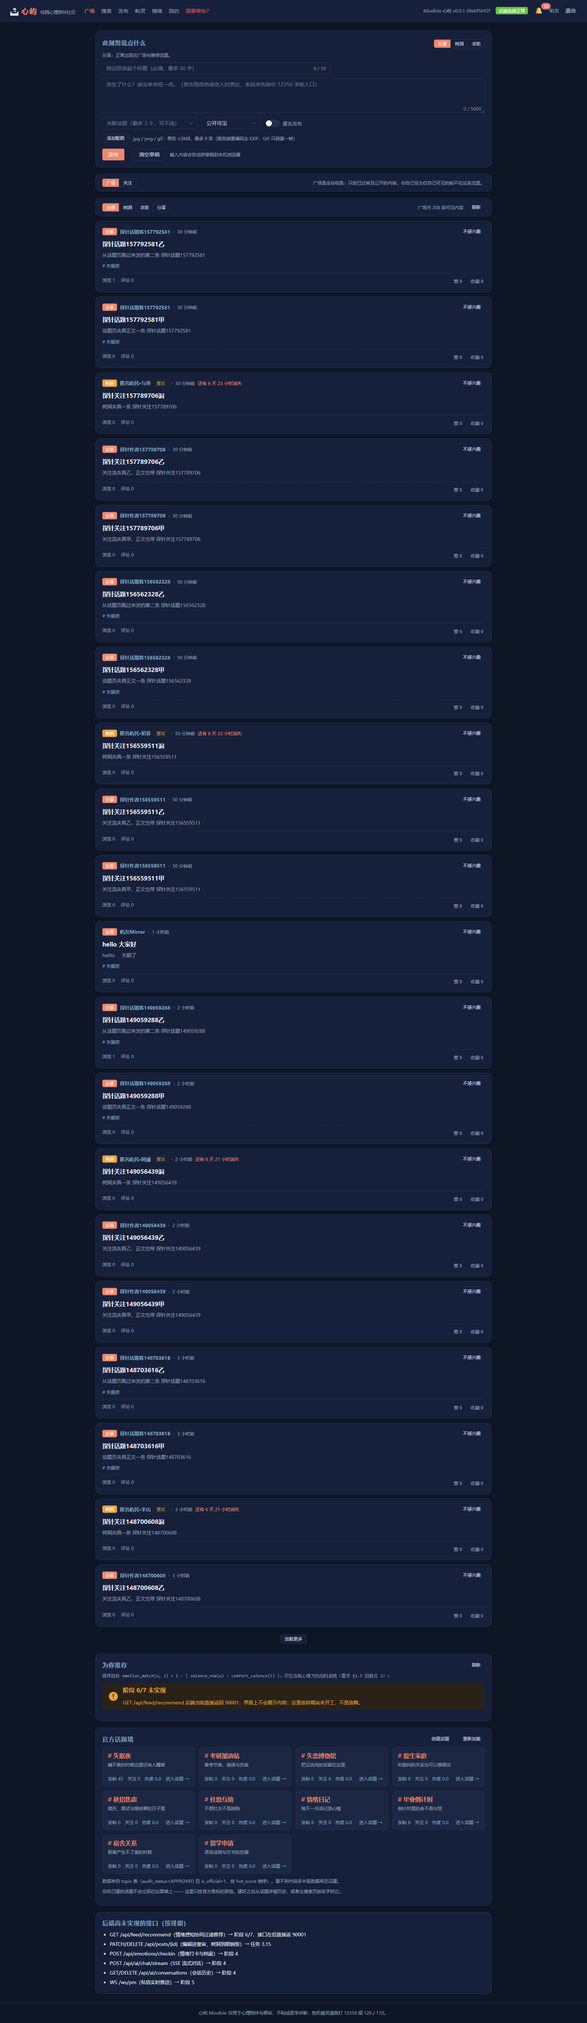
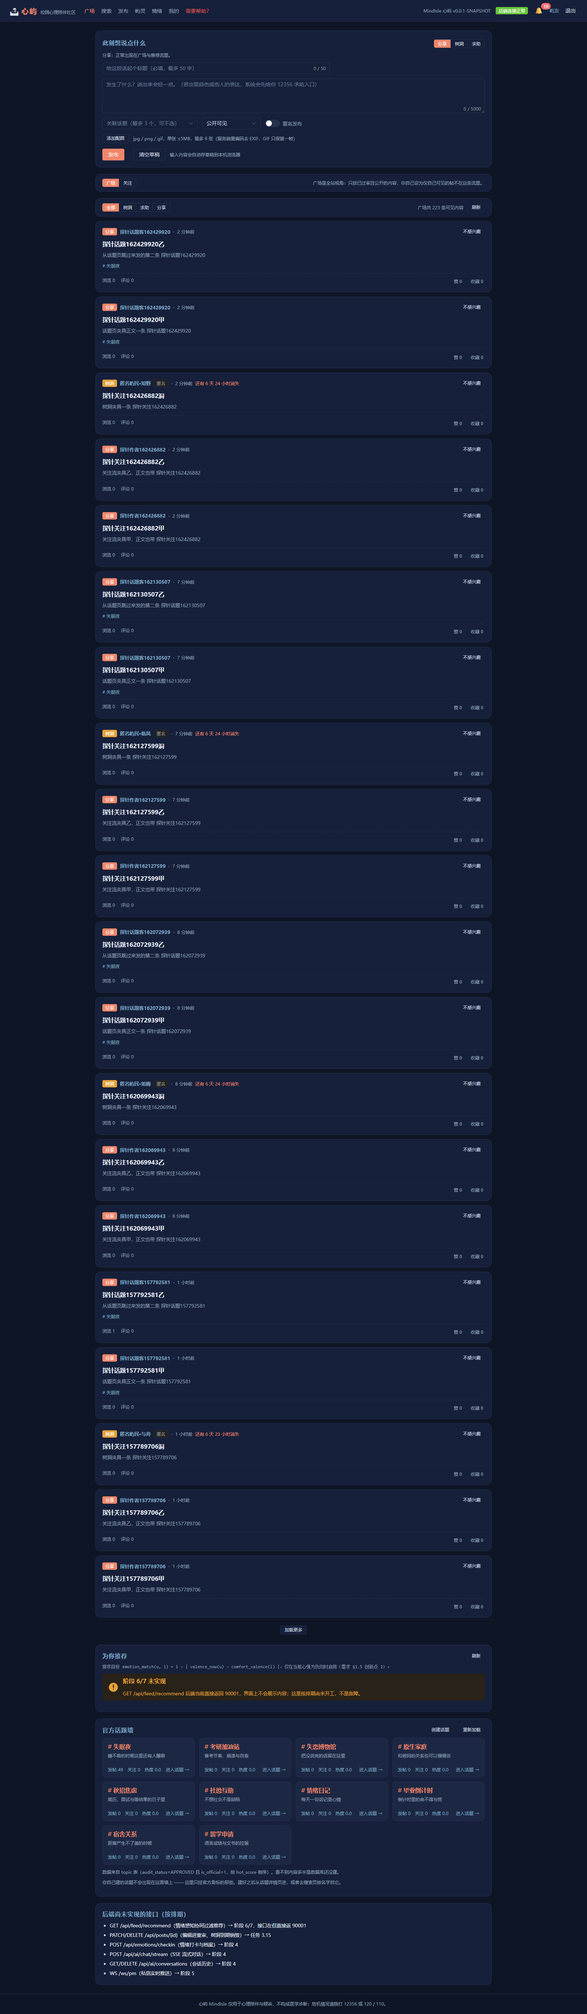
fix(009): 同屏两处「评论 N」统一口径 (4th bug found by eyeballing green screenshots, domprobe 121, build 1784, assertion falsified, no tag)
- 根因（DB 现查 post 308 = 20 条 = 19 PUBLISHED + 1 PENDING + 0 楼中楼）：卡片取 post.comment_cnt
  （先审后发只统计已发布），评论区标题取接口 total（含「仅作者可见」的待审那条）；两个字段各有注释、
  各自都算对，撞在同一屏才是 bug —— 四线全绿当天，靠人放大 06 截图才发现（shootgate 21/21 / domprobe 121 /
  build exit 0 / 冒烟 246 全都没覆盖「同屏两个读数必须相等」）
- CommentSection.vue: 新增 publishedCount prop，标题按 comment_cnt 计数，并用一行灰字自解释差额
  （"本页另有 1 条审核中、仅你可见"），不是把两个口径偷偷抹平；PostDetailView.vue 传 post.commentCnt
- 判据两条线各钉一条：shootgate 06 加 parity 断言；domprobe 第 9 组改写为同口径 + 提示条断言（120 → 121 项）
- 🔴 新断言必须先证伪：故意把 shownTotal 改回 total 复跑 → 06 确实 FAIL 并打印 卡片=19 / 评论区标题=20，
  改回后才 21/21；并新增「PASS 也要打印量到的读数」纪律，shootgate 275 → 291 行
- 🔴 顺带查出的两笔新账：① 证据截图首屏已被自家探针夹具污染（03 首屏「探针话题…乙」、15 主角是 probe
  账号 id 232；现查 user 231 行里 smoke_%+probe% 占 223）；② 清一次性数据拖到第五轮，真因是它与夹具耦合，
  欠的是可重入 seed 重建脚本而不是一条 DELETE（手册下一步 ⑧ 已升格为真任务）
- 后端本轮零改动；文档回写：手册 v1.2.5 / 1847 行、gate 总纲 223 行（新增 §1.3.1 全案 + 证伪记录）、
  docs/dev-log.md 续 12 / 1258 行、README.md 219 行；build ✓ 1784 modules（1783 → 1784 的 +1 来源未取证，已写白）
- Gate3 仍 ◐：U1 首页未开工 + T3.15~T3.17 复检未做 + T3.10 埋点未做 → 刻意不打 tag，基线仍 stage-2-skeleton

diff --git a/frontend/src/components/CommentSection.vue b/frontend/src/components/CommentSection.vue
@@ -1,8 +1,8 @@
 <template>
   <section class="mi-card comments">
     <header class="bar">
-      <h2 class="h">评论 <span class="n">{{ fmtCount(total) }}</span></h2>
-      <span class="rule">按一级评论计数，楼中楼的回复不在这个数字里。</span>
+      <h2 class="h">评论 <span class="n">{{ fmtCount(shownTotal) }}</span></h2>
+      <span class="rule">{{ countRule }}</span>
     </header>
 
     <crisis-card v-if="hotline" :hotline="hotline"
@@ -52,7 +52,7 @@
 
       <div class="pager">
         <el-button v-if="hasMore" class="more" size="small" :loading="loading" @click="loadMore">查看更多评论</el-button>
-        <span v-else-if="threads.length" class="end">共 {{ total }} 条一级评论，已经看到底了。</span>
+        <span v-else-if="threads.length" class="end">一级评论 {{ total }} 条已全部加载{{ pendingRoots ? '（含 ' + pendingRoots + ' 条审核中、仅你可见）' : '' }}。</span>
       </div>
 
       <footer class="composer">
@@ -119,7 +119,15 @@ import CrisisCard from '@/components/CrisisCard.vue'
  * REJECTED / DELETED 谁都不可见——这两种只留文案，列表里一个像素都不给。</p>
  */
 const props = defineProps({
-  postId: { type: [Number, String], required: true }
+  postId: { type: [Number, String], required: true },
+  /**
+   * 卡片/详情页页脚那个「评论 N」的值（= 后端 post.comment_cnt：只数 PUBLISHED，含楼中楼回复）。
+   * 评论区标题必须用**这一个数**，不能用列表的 total —— total 是「对当前查看者可见的一级评论数」，
+   * 既不含楼中楼、又把作者自己那条 PENDING 算进来，两个口径混在同一个屏幕上就会出现
+   * 「页脚写 19、评论区标题写 20」这种看起来像 bug 的对不上（Gate3 截图 06 实测到）。
+   * 不给这个 prop 时回退用 total，保证组件单独挂载时不炸。
+   */
+  publishedCount: { type: [Number, String], default: null }
 })
 // 一条已发布评论落库时告诉父级一次：详情页页脚那个「评论 N」就是靠它自增的，
 // 口径与后端 post.comment_cnt 完全一致（只数 PUBLISHED 且未删除的评论，含楼中楼回复）。
@@ -147,6 +155,27 @@ const tip = ref('')
 // 换帖时旧请求晚到会污染新帖子，所以每次发请求领一个号：回来时号不是最新的就整份丢掉。
 // 这条纪律是从 usePagedPosts.js 抄来的，同一个坑不该在两个列表里各踩一次。
 let seq = 0
+
+// 屏上「仅作者自己可见」的待审评论条数：一级评论里的那几条（回复层的另算，见 pendingAll）。
+const pendingRoots = computed(() => threads.value.filter(function (t) {
+  return t && t.root && t.root.status === 'PENDING'
+}).length)
+const pendingAll = computed(() => threads.value.reduce(function (n, t) {
+  if (!t) return n
+  if (t.root && t.root.status === 'PENDING') n += 1
+  return n + (Array.isArray(t.replies) ? t.replies.filter(function (r) { return r && r.status === 'PENDING' }).length : 0)
+}, 0))
+// 标题数字的唯一口径：父级给的「已发布评论数」，取不到才退回列表 total。
+const shownTotal = computed(() => {
+  const v = Number(props.publishedCount)
+  return Number.isFinite(v) && v >= 0 ? v : total.value
+})
+const countRule = computed(() => {
+  const base = '只数已发布评论，楼中楼回复也算在内，与卡片上的「评论」是同一个数。'
+  return pendingAll.value > 0
+    ? base + '本页另有 ' + pendingAll.value + ' 条审核中、仅你可见，所以下面会比这个数字多。'
+    : base
+})
 
 const len = computed(() => commentLength(draft.value))
 const overLimit = computed(() => len.value > COMMENT_MAX_CHARS)

diff --git a/frontend/src/views/post/PostDetailView.vue b/frontend/src/views/post/PostDetailView.vue
@@ -88,7 +88,7 @@
 
     <!-- 评论区（任务 T3.7 · U4）：单独一张卡。未登录、加载失败、空列表三种状态由组件自己画，
          详情页不参与——同一句「看不到评论」在三种情况下的成因完全不同，混在父页面里判就容易判错。 -->
-    <comment-section v-if="post" :post-id="postId" @published="onCommentPublished" />
+    <comment-section v-if="post" :post-id="postId" :published-count="post.commentCnt" @published="onCommentPublished" />
 
     <!-- 举报弹层（T3.11）。用弹层而不是常驻表单：举报是填完就走的低频动作，
          挂在正文下面会让「看帖」这件事一直被一个空框子打断。 -->
@@ -192,6 +192,8 @@ const previewList = computed(() => (post.value?.images || []).map((x) => x.url))
 const postId = computed(() => Number(route.params.id) || 0)
 // 页脚的「评论 N」跟着回执走：口径与后端 post.comment_cnt 相同（只数已发布，含楼中楼回复），
 // 所以一条被机审转人工的评论不会让这个数变化——它确实还没进 comment_cnt。
+// 同一个数还通过 published-count 传给评论区当标题：屏幕上两处「评论 N」必须是同一个口径，
+// 待审那几条由组件自己在规则文案里单独说明（Gate3 截图 06 实测到「页脚 19 / 标题 20」对不上）。
 function onCommentPublished() {
   if (!post.value) return
   post.value.commentCnt = (Number(post.value.commentCnt) || 0) + 1

diff --git a/README.md b/README.md
@@ -1,6 +1,6 @@
 # 009_心屿（MindIsle）· AI 心理陪伴与情感支持社区平台（毕业设计）
 
-> 项目编号 009 ｜ 立项 2026-09-17 ｜ 当前阶段：**阶段 3 进行中（☑ 8 / ◐ 7 / ☐ 2 ｜ §6.4 Gate 3 清单 ☑ 4 / ☐ 1 ｜ 未打 tag，最新 `stage-2-skeleton`）**——真实 MySQL 已建库（**33 张表 / 9.7.1**），社区主线 **T3.3 发帖 + 状态机 + 危机工单** 与 **T3.5 列表 / 详情** 与 **T3.6 点赞 · 收藏 · 关注（含全表不变式取证）** 与 **T3.7 评论与楼中楼（两态先审后发 + 三级压平 + 危机评论建工单）** 与 **T3.11 举报 + T3.11-b 站内通知与顶栏铃铛（一人一条 / 三人阈值转人审 / self-harm 只转介不处置）** 与 **T3.9 站内搜索（帖子·话题·屿友三条路径 + `/search` 页）** 与 **T3.17 关注流（`GET /api/feed/following` + 广场「关注」Tab）** 已落地并跑通：`mvn -o -B test` 实测 **368 例 0 失败 0 错误 1 跳过**，另有一条**真 HTTP 冒烟脚本** `docs/smoke.mjs` 实测 **246 项 / 231 条断言 / 0 失败**（21 步：注册→登录→发帖→机审拦截→危机转人工→工单落库→马甲去重→配额 429→上传挂图→**可见性（私密与待审整行不出现）→翻页零重叠→浏览量缓存回写**→**点赞收藏关注往返**→**评论三级压平 / 待审仅作者可见 / BR4 第 21 条 429 与 30003**→**举报一人一条不重开 / 三人阈值转人审 + 第三人读回 404 / self-harm 只给 12356**→**赞·评论·关注三类通知 + 游标翻页 + 幂等标已读（越权 `updated=0`）**→**站内搜索三条路径：命中与不命中 / 未登录 401 / `%` 与 `_` 按 `ESCAPE '!'` 转义 / 私密与待审帖整行不出现**→**关注流：未登录 401 不退化成广场 / 空关注不发 SQL / 树洞与私密恒不出现**，跑完回查数据库取证）。**T3.5**：`GET /api/posts`（游标 `beforeId` + `size≤50`，未登录 401/10002）与 `GET /api/posts/{id}`（不可见与不存在统一 **404/30001**，绝不 403）已带真库证据；浏览量走**每帖每 5 分钟最多回写一次**的写延迟缓存（SQL 复核 `post 32 view_cnt=1`，与「列表读到 1、详情读到 3」互证）。**T3.13 前端第一批（U3 / U4 / U5）+ 第二批（U11 屿友主页 / U12 我的帖子）+ 本轮增量（U4 评论区 CommentSection.vue）代码已落地**，证据三条：`npm run build` **exit 0**、经 Vite 代理的真取数 `proxycheck.mjs` **10 项 / 0 失败**、**jsdom DOM 级取证 `frontend/probe/domprobe.mjs` 真渲染 + 真点击 120 项 / 0 失败（13 组）**；**第四条线 = 真浏览器取证 `frontend/probe/shootgate.mjs`**（系统 Chrome，**21 张带四类机器断言的截图**，末次 21/21 PASS / exit 0，图与总纲在 `docs/gate/阶段3/`）+ **量级性能线 `docs/gate/阶段3/perf-posts.mjs`**（508 条量级广场 **P95=33ms**，PASS）。**但四条线各证各的、谁也不能替谁背书**：jsdom 不含样式与布局，真浏览器截图不测业务规则；探针自「续 7」第 11 组起**第一次点过写按钮**（注册一次性账号 → 关注 → 点铃铛 → 全部已读），代价是库里多了未清理的 user 77–85 与 notify 58–63 —— 而「点过写」仍**不等于**「界面已验证」（写白）。未做（☐ 2 项）：**埋点 T3.10 / 编辑与到期销毁 T3.15**；◐ 7 项 = T3.2 词库热更新、T3.13（只剩 **U1 首页**未开工，真浏览器取证已由 v1.2.4 补上）、T3.8 话题圈（`hot_score` / `is_top` / U6 头图 / 预审放行四件欠账）、T3.14 Gate3 自检（§6.4 已 ☑ 4 条，欠单测与 v1.1 补齐复检）、T3.16 U13 通知中心整页、**T3.9 搜索（相关度排序与全文通道未开、U8 历史与热搜要等 T3.10）**、**T3.17 关注流（种子评论 ≥ 200 条未补）**；另有 U1/U6 前端未开工；未实现的部分按设计返回 **90001/501，不用 mock 糊弄演示**。开题材料（阶段 1B）按用户 2026-09-18 指令顺延，不排在代码之前。
+> 项目编号 009 ｜ 立项 2026-09-17 ｜ 当前阶段：**阶段 3 进行中（☑ 8 / ◐ 7 / ☐ 2 ｜ §6.4 Gate 3 清单 ☑ 4 / ☐ 1 ｜ 未打 tag，最新 `stage-2-skeleton`）**——真实 MySQL 已建库（**33 张表 / 9.7.1**），社区主线 **T3.3 发帖 + 状态机 + 危机工单** 与 **T3.5 列表 / 详情** 与 **T3.6 点赞 · 收藏 · 关注（含全表不变式取证）** 与 **T3.7 评论与楼中楼（两态先审后发 + 三级压平 + 危机评论建工单）** 与 **T3.11 举报 + T3.11-b 站内通知与顶栏铃铛（一人一条 / 三人阈值转人审 / self-harm 只转介不处置）** 与 **T3.9 站内搜索（帖子·话题·屿友三条路径 + `/search` 页）** 与 **T3.17 关注流（`GET /api/feed/following` + 广场「关注」Tab）** 已落地并跑通：`mvn -o -B test` 实测 **368 例 0 失败 0 错误 1 跳过**，另有一条**真 HTTP 冒烟脚本** `docs/smoke.mjs` 实测 **246 项 / 231 条断言 / 0 失败**（21 步：注册→登录→发帖→机审拦截→危机转人工→工单落库→马甲去重→配额 429→上传挂图→**可见性（私密与待审整行不出现）→翻页零重叠→浏览量缓存回写**→**点赞收藏关注往返**→**评论三级压平 / 待审仅作者可见 / BR4 第 21 条 429 与 30003**→**举报一人一条不重开 / 三人阈值转人审 + 第三人读回 404 / self-harm 只给 12356**→**赞·评论·关注三类通知 + 游标翻页 + 幂等标已读（越权 `updated=0`）**→**站内搜索三条路径：命中与不命中 / 未登录 401 / `%` 与 `_` 按 `ESCAPE '!'` 转义 / 私密与待审帖整行不出现**→**关注流：未登录 401 不退化成广场 / 空关注不发 SQL / 树洞与私密恒不出现**，跑完回查数据库取证）。**T3.5**：`GET /api/posts`（游标 `beforeId` + `size≤50`，未登录 401/10002）与 `GET /api/posts/{id}`（不可见与不存在统一 **404/30001**，绝不 403）已带真库证据；浏览量走**每帖每 5 分钟最多回写一次**的写延迟缓存（SQL 复核 `post 32 view_cnt=1`，与「列表读到 1、详情读到 3」互证）。**T3.13 前端第一批（U3 / U4 / U5）+ 第二批（U11 屿友主页 / U12 我的帖子）+ 本轮增量（U4 评论区 CommentSection.vue）代码已落地**，证据三条：`npm run build` **exit 0**、经 Vite 代理的真取数 `proxycheck.mjs` **10 项 / 0 失败**、**jsdom DOM 级取证 `frontend/probe/domprobe.mjs` 真渲染 + 真点击 120 项 / 0 失败（13 组）**；**第四条线 = 真浏览器取证 `frontend/probe/shootgate.mjs`**（系统 Chrome，**21 张带四类机器断言的截图**，末次 21/21 PASS / exit 0，图与总纲在 `docs/gate/阶段3/`）+ **量级性能线 `docs/gate/阶段3/perf-posts.mjs`**（508 条量级广场 **P95=33ms**，PASS）。**续 12 的教训：四条线全绿当天，肉眼又抓出第 4 个真 bug —— 同一屏出现两个「评论 N」读数（卡片 19 / 评论区标题 20），两个后端字段各自都有注释、各自都算对，撞在一屏才是 bug；所以「绿」只证明断言没覆盖到，不证明界面正确**。**但四条线各证各的、谁也不能替谁背书**：jsdom 不含样式与布局，真浏览器截图不测业务规则；探针自「续 7」第 11 组起**第一次点过写按钮**（注册一次性账号 → 关注 → 点铃铛 → 全部已读），代价是库里多了未清理的 user 77–85 与 notify 58–63 —— 而「点过写」仍**不等于**「界面已验证」（写白）。未做（☐ 2 项）：**埋点 T3.10 / 编辑与到期销毁 T3.15**；◐ 7 项 = T3.2 词库热更新、T3.13（只剩 **U1 首页**未开工，真浏览器取证已由 v1.2.4 补上）、T3.8 话题圈（`hot_score` / `is_top` / U6 头图 / 预审放行四件欠账）、T3.14 Gate3 自检（§6.4 已 ☑ 4 条，欠单测与 v1.1 补齐复检）、T3.16 U13 通知中心整页、**T3.9 搜索（相关度排序与全文通道未开、U8 历史与热搜要等 T3.10）**、**T3.17 关注流（种子评论 ≥ 200 条未补）**；另有 U1/U6 前端未开工；未实现的部分按设计返回 **90001/501，不用 mock 糊弄演示**。开题材料（阶段 1B）按用户 2026-09-18 指令顺延，不排在代码之前。
 > 论文题目（推荐）：**《基于大语言模型与情绪感知协同过滤算法的校园心理陪伴社区平台的设计与实现》**
 > 英文题目：*Design and Implementation of a Campus Psychological Companionship Community Platform Based on Large Language Model and Emotion-Aware Collaborative Filtering*
 >
@@ -12,7 +12,7 @@
 | 文件 | 作用 |
 |---|---|
 | `需求分析文档.md`（**v1.2.1**） | 做什么、做到什么标准：FR1–FR10 / NFR / BR / 算法与实验设计 / 里程碑 / DoD / 论文章节映射；§15 风险表已并入调研新增的 **R12–R21**，§7.2 表清单口径统一为「24 个编号行 = **31** 张物理表」（v1.2.1 把「单独同意」拆成独立 `user_consent` 表） |
-| **`制作步骤文档.md`（**v1.2.4**）** | **怎么一步步做**：技术栈定版、阶段 0–9 施工步骤与可复制命令、Gate 验收（含 §18 Gate 判定汇总 10 行）、42 条常见故障速查、117 项任务打勾总表（**144.3 人日 ≈ 577 小时**，日历 ≈32 周）、§17 三向追溯矩阵 101 行（FR 74 + NFR 12 + BR 12 + AR 3）、§19 交付自检。**当前 v1.1.6 = T3.3 发帖状态机 + 危机工单回写（v1.1.4 / v1.1.5 条目仍然有效）**（其下条目为 v1.1.3 的阶段 2 回写，仍然有效）：表数 30→31、`user_consent` 独立建表、申诉表定名 `post_appeal`、`00_create_db_and_user.sql` 实名、词云 R19 依赖层关闭（运行时渲染仍待验证）、§5.8 与 §5.10 逐条对账；**v1.1.4（2026-09-20）新增**：敏感词引擎 + 马甲规则 + 频率规则三块地基落地并测绿（66 例单测）、§15 阶段 3 表 **T3.2/T3.4/T3.12 由 ☐ 升 ◐**（其余 14 项仍 ☐）、§18 Gate3 改「◐ 进行中」、OpenAPI 实测 **21 paths / 24 operations / 6 分组**、本轮修掉 **8 处真实缺陷**（最贵一条：裸路径在 Servlet 容器 ResourceLoader 下解析成 `ServletContext resource [...]`，测试绿线上红）；**v1.1.5（2026-09-20）新增**：**T3.1 图片上传**落地 —— 魔数白名单（只认 jpg/png/gif 文件头，扩展名与 Content-Type 一律不信）+ Thumbnailator 重编码去 EXIF + 按原格式回存（不用 WebP：FR4.1 白名单只有 jpg/png/gif 且 JDK 17 无 WebP 编码器）；§15 表 **T3.1 由 ☐ 升 ◐**（阶段 3 收工口径 **☑ 0 / ◐ 4 / ☐ 13**）、单测 66 → **80 例**、OpenAPI **21/24/6 → 22 paths / 25 operations / 7 分组**（新增 07-file）、本轮又挖出 **4 个坑**（最贵一条：MVC 静态映射被写成 `/uploads//**`，磁盘有文件而 HTTP 404、80 例单测却全绿 → 接线类改动必须在跑着的服务上打一次真实请求）；**v1.1.6（2026-09-20）新增**：**31 表 DDL 第一次被真实 MySQL 解析执行**（`docs/init-db.ps1` 端到端跑通，`information_schema` 实测 31 表 / 9.7.1）、**T3.3 ☐→☑**（发帖八步判定顺序 + 危机 L2·L3 建 `alert_ticket` + `post_status_log` 状态日志）、**T3.12 ◐→☑**（配额有了真实调用方，明确决定不做重启 COUNT 校准）、**T3.1 ◐→☑**（登录 200 上传 + 挂图进帖）、**T3.4 ◐→☑**（马甲分配第一次跑在真库上），阶段 3 口径 **☑ 4 / ◐ 1 / ☐ 12**；单测 80 → **131 例**、新增**真 HTTP 冒烟** `docs/smoke.mjs`（45 项 / 41 断言 / 0 失败）；§6.1 追加 v1.1.6 实测回写 8 条（最贵一条：Java 15+ 把字符串字面量里的 `s` **静默当成空格**，正则失效而 131 例单测照样全绿，最后靠打印 charCode 才抓出来）；**v1.1.7（2026-09-20）新增**：**T3.5 ☐→☑**（游标分页 `beforeId` + 唯一可见性判据 `visibleTo` + 浏览量**每帖每 5 分钟最多回写一次**的写延迟缓存，回写 SQL 用 `view_cnt = view_cnt + #{delta}` 库内原子累加）、**§6.4 第 1 条 ☐→☑**（灰词转人审的双账号可见性第一次被真库实测：第三人列表整条不出现、详情 404/30001、作者侧带 `auditTip`）、**T3.13 ☐→◐ 第一批**（U3/U4/U5 代码落地，**证据只有 build + 代理级取数，未经浏览器渲染实测**）、阶段 3 口径 **☑ 5 / ◐ 2 / ☐ 10**、单测 131 → **153 例**、冒烟 45 项/41 断言 → **68 项 / 63 断言**（11 步 → 13 步）、§6.1 追加 v1.1.7 实测回写 9 条（最贵一条：`auditTip` 判据写成 `isOwner(post, post.getUserId())` 恒真且漏传 `viewerId`，会把「谁在被审核」泄露给全广场 —— 靠双账号冒烟抓出）；**v1.1.8（2026-09-21）新增**：**T3.13 第二批落地** —— 后端 `GET /api/users/me/posts` + `GET /api/users/{id:\d+}/posts`（作者视角能找回私密与待审；外人视角三重收窄，**匿名帖恒不出现** = FR1.4 防解匿）、`PostQueryService` 463 → 592 行、新增 `PostListSqlConditionTest` **6 例**（不连库钉 SQL 形状，其中一例用反射钉「主页判据签名里不允许有 viewerId」）、前端 U11/U12 两页 + `composables/usePagedPosts.js`、**并第一次做出 DOM 级取证**（`frontend/probe/domprobe.mjs`：同配置编译成 iife 包塞进 jsdom + 真登录 token + 真点击，23 项 / 0 失败）；单测 153 → **162 例**、冒烟 68/63 → **85 项 / 78 断言**（13 → 14 步，断言数一律抄脚本汇总行）、OpenAPI 22/25/7 → **24 / 27 / 7**、§6.1 追加 v1.1.8 回写 7 条；**T3.13 维持 ◐ 不升 ☑**（真浏览器仍未测：jsdom 不含样式与布局）；**v1.1.9（2026-09-21）新增**：**T3.6 ☐→☑**（幂等 = 查—复活同一行—软删、计数**按真实互动行重算**而不是 `INCR`、**自赞允许且计数**），§6.1 的 3.6 行与 §15 / §17 BR4 **三处口径按实测回改**、§6.2 U3/U4/U11 三行更新、§6.4 第 2 条 ☐→☑、阶段 3 口径 **☑ 5→6 / ☐ 10→9**、单测 162 → **185 例**、冒烟 85/78 → **113 / 105**（14 → 15 步）、OpenAPI 24/27/7 → **27 / 30 / 7**、`domprobe` 23 → **30 项**、新增**全表不变式 SQL 取证（三条谓词归零）**；**v1.2.0（2026-09-21）新增**：**T3.7 ☐→☑**（评论两态先审后发 + 三级压平成两级 + rootId 展开 + 危机评论复用 newTicket 建工单，**已知妥协：alert_ticket.source_type 没有 comment 取值、只能在证据文本里回指评论 id**）、§6.1 行 3.7 整行重写 + 追加 15 条实测回写、§6.2 U4 行接评论区、§14 速查新增 31–35 五条、阶段 3 口径 **☑ 6→7 / ☐ 9→8**、单测 185 → **228 例**、冒烟 113/105 → **137 项 / 127 断言**（15 → 16 步）、domprobe 30 → **42 项**、手册 1744 → **1766 行**（含本轮新增的 §14 第 36 条）（**OpenAPI 本轮未取证**）；**v1.2.2（2026-09-23）新增**：**T3.9 站内搜索**（帖子·话题·屿友三条 LIKE 路径 + `common/Keyword` 与 `common/LikePattern` 两件通用工具 + 前端 `/search` 页 337 行）与 **T3.17 关注流**（`GET /api/feed/following` + 广场「关注」Tab，两节用 `v-show` 以保住无限滚动的哨兵）**双双落地 → 两项由 ☐ 升 ◐**（各带一条写死的欠账：相关度排序与全文通道 / 种子评论 ≥200 条），阶段 3 口径 **☑ 8 / ◐ 3→5 / ☐ 6→4**、单测 296 → **327 例**、冒烟 187/175 → **220 项 / 206 断言**（18 → 20 步、脚本 1393 → 1683 行）、OpenAPI 27/30/7 → **35 paths / 39 operations / 9 分组**（新增 `09-search 站内搜索`）、domprobe 61 → **93 项 / 0 失败（新增第 12 组，并自抓到「筛选生效但地址栏没变」的 `switchType` 漏 `syncQuery` bug）**、`npm run build` **✓ 1780 modules**、手册 1785 → **1802 行** |
+| **`制作步骤文档.md`（**v1.2.5**）** | **怎么一步步做**：技术栈定版、阶段 0–9 施工步骤与可复制命令、Gate 验收（含 §18 Gate 判定汇总 10 行）、42 条常见故障速查、117 项任务打勾总表（**144.3 人日 ≈ 577 小时**，日历 ≈32 周）、§17 三向追溯矩阵 101 行（FR 74 + NFR 12 + BR 12 + AR 3）、§19 交付自检。**当前 v1.1.6 = T3.3 发帖状态机 + 危机工单回写（v1.1.4 / v1.1.5 条目仍然有效）**（其下条目为 v1.1.3 的阶段 2 回写，仍然有效）：表数 30→31、`user_consent` 独立建表、申诉表定名 `post_appeal`、`00_create_db_and_user.sql` 实名、词云 R19 依赖层关闭（运行时渲染仍待验证）、§5.8 与 §5.10 逐条对账；**v1.1.4（2026-09-20）新增**：敏感词引擎 + 马甲规则 + 频率规则三块地基落地并测绿（66 例单测）、§15 阶段 3 表 **T3.2/T3.4/T3.12 由 ☐ 升 ◐**（其余 14 项仍 ☐）、§18 Gate3 改「◐ 进行中」、OpenAPI 实测 **21 paths / 24 operations / 6 分组**、本轮修掉 **8 处真实缺陷**（最贵一条：裸路径在 Servlet 容器 ResourceLoader 下解析成 `ServletContext resource [...]`，测试绿线上红）；**v1.1.5（2026-09-20）新增**：**T3.1 图片上传**落地 —— 魔数白名单（只认 jpg/png/gif 文件头，扩展名与 Content-Type 一律不信）+ Thumbnailator 重编码去 EXIF + 按原格式回存（不用 WebP：FR4.1 白名单只有 jpg/png/gif 且 JDK 17 无 WebP 编码器）；§15 表 **T3.1 由 ☐ 升 ◐**（阶段 3 收工口径 **☑ 0 / ◐ 4 / ☐ 13**）、单测 66 → **80 例**、OpenAPI **21/24/6 → 22 paths / 25 operations / 7 分组**（新增 07-file）、本轮又挖出 **4 个坑**（最贵一条：MVC 静态映射被写成 `/uploads//**`，磁盘有文件而 HTTP 404、80 例单测却全绿 → 接线类改动必须在跑着的服务上打一次真实请求）；**v1.1.6（2026-09-20）新增**：**31 表 DDL 第一次被真实 MySQL 解析执行**（`docs/init-db.ps1` 端到端跑通，`information_schema` 实测 31 表 / 9.7.1）、**T3.3 ☐→☑**（发帖八步判定顺序 + 危机 L2·L3 建 `alert_ticket` + `post_status_log` 状态日志）、**T3.12 ◐→☑**（配额有了真实调用方，明确决定不做重启 COUNT 校准）、**T3.1 ◐→☑**（登录 200 上传 + 挂图进帖）、**T3.4 ◐→☑**（马甲分配第一次跑在真库上），阶段 3 口径 **☑ 4 / ◐ 1 / ☐ 12**；单测 80 → **131 例**、新增**真 HTTP 冒烟** `docs/smoke.mjs`（45 项 / 41 断言 / 0 失败）；§6.1 追加 v1.1.6 实测回写 8 条（最贵一条：Java 15+ 把字符串字面量里的 `s` **静默当成空格**，正则失效而 131 例单测照样全绿，最后靠打印 charCode 才抓出来）；**v1.1.7（2026-09-20）新增**：**T3.5 ☐→☑**（游标分页 `beforeId` + 唯一可见性判据 `visibleTo` + 浏览量**每帖每 5 分钟最多回写一次**的写延迟缓存，回写 SQL 用 `view_cnt = view_cnt + #{delta}` 库内原子累加）、**§6.4 第 1 条 ☐→☑**（灰词转人审的双账号可见性第一次被真库实测：第三人列表整条不出现、详情 404/30001、作者侧带 `auditTip`）、**T3.13 ☐→◐ 第一批**（U3/U4/U5 代码落地，**证据只有 build + 代理级取数，未经浏览器渲染实测**）、阶段 3 口径 **☑ 5 / ◐ 2 / ☐ 10**、单测 131 → **153 例**、冒烟 45 项/41 断言 → **68 项 / 63 断言**（11 步 → 13 步）、§6.1 追加 v1.1.7 实测回写 9 条（最贵一条：`auditTip` 判据写成 `isOwner(post, post.getUserId())` 恒真且漏传 `viewerId`，会把「谁在被审核」泄露给全广场 —— 靠双账号冒烟抓出）；**v1.1.8（2026-09-21）新增**：**T3.13 第二批落地** —— 后端 `GET /api/users/me/posts` + `GET /api/users/{id:\d+}/posts`（作者视角能找回私密与待审；外人视角三重收窄，**匿名帖恒不出现** = FR1.4 防解匿）、`PostQueryService` 463 → 592 行、新增 `PostListSqlConditionTest` **6 例**（不连库钉 SQL 形状，其中一例用反射钉「主页判据签名里不允许有 viewerId」）、前端 U11/U12 两页 + `composables/usePagedPosts.js`、**并第一次做出 DOM 级取证**（`frontend/probe/domprobe.mjs`：同配置编译成 iife 包塞进 jsdom + 真登录 token + 真点击，23 项 / 0 失败）；单测 153 → **162 例**、冒烟 68/63 → **85 项 / 78 断言**（13 → 14 步，断言数一律抄脚本汇总行）、OpenAPI 22/25/7 → **24 / 27 / 7**、§6.1 追加 v1.1.8 回写 7 条；**T3.13 维持 ◐ 不升 ☑**（真浏览器仍未测：jsdom 不含样式与布局）；**v1.1.9（2026-09-21）新增**：**T3.6 ☐→☑**（幂等 = 查—复活同一行—软删、计数**按真实互动行重算**而不是 `INCR`、**自赞允许且计数**），§6.1 的 3.6 行与 §15 / §17 BR4 **三处口径按实测回改**、§6.2 U3/U4/U11 三行更新、§6.4 第 2 条 ☐→☑、阶段 3 口径 **☑ 5→6 / ☐ 10→9**、单测 162 → **185 例**、冒烟 85/78 → **113 / 105**（14 → 15 步）、OpenAPI 24/27/7 → **27 / 30 / 7**、`domprobe` 23 → **30 项**、新增**全表不变式 SQL 取证（三条谓词归零）**；**v1.2.0（2026-09-21）新增**：**T3.7 ☐→☑**（评论两态先审后发 + 三级压平成两级 + rootId 展开 + 危机评论复用 newTicket 建工单，**已知妥协：alert_ticket.source_type 没有 comment 取值、只能在证据文本里回指评论 id**）、§6.1 行 3.7 整行重写 + 追加 15 条实测回写、§6.2 U4 行接评论区、§14 速查新增 31–35 五条、阶段 3 口径 **☑ 6→7 / ☐ 9→8**、单测 185 → **228 例**、冒烟 113/105 → **137 项 / 127 断言**（15 → 16 步）、domprobe 30 → **42 项**、手册 1744 → **1766 行**（含本轮新增的 §14 第 36 条）（**OpenAPI 本轮未取证**）；**v1.2.2（2026-09-23）新增**：**T3.9 站内搜索**（帖子·话题·屿友三条 LIKE 路径 + `common/Keyword` 与 `common/LikePattern` 两件通用工具 + 前端 `/search` 页 337 行）与 **T3.17 关注流**（`GET /api/feed/following` + 广场「关注」Tab，两节用 `v-show` 以保住无限滚动的哨兵）**双双落地 → 两项由 ☐ 升 ◐**（各带一条写死的欠账：相关度排序与全文通道 / 种子评论 ≥200 条），阶段 3 口径 **☑ 8 / ◐ 3→5 / ☐ 6→4**、单测 296 → **327 例**、冒烟 187/175 → **220 项 / 206 断言**（18 → 20 步、脚本 1393 → 1683 行）、OpenAPI 27/30/7 → **35 paths / 39 operations / 9 分组**（新增 `09-search 站内搜索`）、domprobe 61 → **93 项 / 0 失败（新增第 12 组，并自抓到「筛选生效但地址栏没变」的 `switchType` 漏 `syncQuery` bug）**、`npm run build` **✓ 1780 modules**、手册 1785 → **1802 行** |
 | `同类项目调研与实现方案.md`（**已定版 + §10 增补**） | ✅ Gate 1 产出：18 个同类项目档案 + 横向对比 + 许可证核查 + §6 实现方案 + §7 风险 R12–R21。**SOP 关卡已过，§0–§9 转只读**，开工后的事实以 **§10「阶段 2 施工实测回写」** 追加（表数 31、R19 只关一半、毕设材料顺延） |
 
 ## 二、项目目标（四件事缝成一条闭环）
@@ -193,6 +193,14 @@ node docs\gate\阶段3\perf-posts.mjs          # 打印 P50/P95/P99 并写 perf-
   - 新建 `docs/gate/阶段3/perf-posts.mjs`（**190 行**）：`seed-500-posts.sql` 把广场可见帖 208 → **508** 后开测 → 首屏 **P50=11 / P95=33 / P99=55 / max=55ms（n=60）**，深翻 12ms、游标 57ms、话题流 57ms、走 Vite 代理 44ms，**业务场景最坏 57ms vs 阈值 500ms → PASS / exit 0**；测完 `cleanup-500-posts.sql` 回滚（收尾 root 实测 post **350** / pub_public **208** / 夹具 **0** / user **213**）。**口径是串行单并发粗测，不是并发吞吐**（正式压测按手册留给阶段 8）。
   - 🔴 **两条新坑（已写进手册与 gate 总纲）**：① **`RateLimitInterceptor` 跑在业务逻辑之前**（登录 60 次/分固定窗口）→ 裸压脚本第一版打印「P95=2ms 快得离谱」，实为 70 枪里 **69 枪 HTTP 429 / code 10010**，**那测的是限流器拒答的耗时**；正解 = 窗口预算内排队（每窗口 ≤40 枪）+ 只统计 HTTP 200 + 429 作废窗口并补测该枪 + 记 `X-RateLimit-Remaining`，**不是绕过或调高限流**；② **近似断言等于没断** —— 06「详情-评论区」那张原来只从首屏 30 条挑样本且 `min` 由接口回值动态取，于是取到 `#350`（**0 评论**）而空态图照样 PASS；改成顺 `nextCursor` 往深页找带评论的帖 → `#308`（`commentCnt=19`、页面 `.comments .row` **20 行**），文字量 586 → **1102**。
   - **复跑顺序（错一位数字就对不上）**：seed → `node docs/gate/阶段3/perf-posts.mjs` → cleanup → `cd frontend && node probe/shootgate.mjs`；**本轮未新增单测、未改后端**，368 / 246 / 120 沿用 v1.2.3 实测值。§6.4 Gate 3 清单 **☑ 4 / ☐ 1**，第 5 条 tag 刻意不套现（**U1 首页未开工** + **T3.15–T3.17 复检未做**）→ **最新 tag 仍是 `stage-2-skeleton`**；🔴 清一次性账号已拖到第四轮（`user` 213 行里 `smoke_%`+`probe%` 占 **205** 个）。
+- [x] **2026-09-23 阶段 3（续 12）—— 四条线全绿之上抓出第 4 个真 bug：同屏两个「评论 N」读数 19 / 20；新写的断言先证伪再算数**：
+  - **根因（两边都没错，撞在一起才错）**：`post 308` 实有 20 条评论 = **19 条 PUBLISHED + 1 条 PENDING + 0 条楼中楼**。卡片读数取自 `post.comment_cnt`（先审后发口径，只统计已发布），评论区标题取自接口 `total`（含「仅作者可见」的待审那条）——两个字段各有注释、各自都算对，但同一屏摆出两个数就是 bug。
+  - **修法**：`CommentSection.vue` 新增 `publishedCount` prop（`PostDetailView.vue` 传 `post.commentCnt`），标题按 `comment_cnt` 计数，差额用一行灰字自解释「本页另有 1 条审核中、仅你可见」，**而不是偷偷抹平两个口径**。
+  - **判据（两条线各钉一条）**：`shootgate.mjs` 06 图新增「卡片读数 === 评论区标题读数」parity 断言；`domprobe.mjs` 第 9 组把旧文案断言改写成同口径 + 差额提示条断言。🔴 **PASS 也要把量到的读数打印进证据日志**（脚本 275 → **291 行**），否则下一轮无从知道它当时究竟量到了什么。
+  - 🔴 **新断言必须先证伪**：故意把 `shownTotal` 改回 `total` 复跑 → 06 确实 FAIL 并打印 `卡片=19 / 评论区标题=20`；改回来才 21/21。**一条从没红过的断言和没写过它一样**。
+  - **数字（照抄脚本与构建打印行）**：`npm run build` **exit 0 / ✓ 1784 modules**（1783 → 1784 的 +1 来源未取证，已在手册 §6.4 写白）、`domprobe` **121 项 / 0 失败（13 组，脚本 1349 行）**、`shootgate` **21/21 PASS / 漏白 0 / 红字 0 / 断言失败 0**（末次日志含读数行）、gate 总纲 188 → **223 行**、手册 **v1.2.5 / 1847 行**、`docs/dev-log.md` **续 12 / 1258 行**；后端**一行未改**。
+  - 🔴 **顺带查出的两笔新账**：① **证据截图首屏已被自家探针夹具污染** —— 03 首屏出现「探针话题…乙」、15 的主角是 probe 账号（现查 `user` **231** 行里 `smoke_%`+`probe%` 占 **223**），答辩前必须换干净演示数据集；② **清一次性数据拖到第五轮**，本轮才明白它和夹具耦合，欠的是 **seed 重建脚本**而不是一条 `DELETE`（手册下一步 ⑧ 已升格为真任务）。
+  - **仍未做（不算完工）**：U1 首页、T3.15–T3.17 复检、T3.10 埋点；§6.4 Gate 3 清单 **☑ 4 / ☐ 1**，第 5 条 tag 继续不套现 → **最新 tag 仍是 `stage-2-skeleton`**。
 - [ ] **阶段 3 进行中（☑ 8 / ◐ 7 / ☐ 2 ｜ §6.4 Gate 3 清单 ☑ 4 / ☐ 1）**：已完 T3.1 上传 / T3.3 发帖状态机 / T3.4 马甲落库 / T3.12 频率限制 / **T3.5 列表与详情（含浏览量缓存回写）** / **T3.6 点赞·收藏·关注（含全表不变式 SQL 取证）** / **T3.7 评论与楼中楼（含 comment_cnt 全表不变式）** / **T3.11 举报 + T3.11-b 站内通知与顶栏铃铛（一人一条 / 三人阈值转人审 / 越权标已读 `updated=0`）** / **T3.9 站内搜索（◐：帖子·话题·屿友三条 LIKE 路径已通，相关度排序与全文通道未开）** / **T3.17 关注流（◐：`GET /api/feed/following` + 广场「关注」Tab 已通，种子评论 ≥200 条未补）**；T3.2 敏感词引擎仍 ◐（灰词转人审的管理端放行未闭环：`HUMAN_REVIEW` 不进 `audit_task`）、**T3.13 前端 ◐：第一批（U3/U4/U5）+ 第二批（U11/U12）均已落地、本轮增量 U4 评论区已接真接口**（DOM 级取证 **42 → 61 项 / 0 失败**，但真浏览器未测、U1/U6 未开工 —— 有 DOM 证据也不升 ☑，因为 jsdom 不含样式与布局；探针到本轮才第一次点写按钮，代价是库里多了未清理的一次性账号）；**T3.16 由 ☐ 升 ◐**：`GET/POST /api/notifications*` 四条端点 + 顶栏铃铛能看能点，U13 通知中心整页、`notify_preference` 偏好、@提醒未做；**T3.9 与 T3.17 由 ☐ 升 ◐（各欠一条：相关度排序与全文通道 / 种子评论 ≥200 条）**；**T3.8 话题与话题圈本轮由 ☐ 升 ◐**（四件欠账：`hot_score` 重算属阶段 4 / `is_top` 无数据源 / U6 头图无上传通道 / 话题预审没有放行通道）→ **口径 ☑ 仍是 8、◐ 5 → 6、☐ 4 → 3**；下一步 **真浏览器截图存 `docs/gate/阶段3/`（Gate3 第 4 条与 tag 都卡在这一步）→ T3.10 埋点（顺带补 U8 搜索历史与热搜）→ ~~T3.8 话题圈~~（**已完成**，`/search` 话题卡现在点得动了；剩 `hot_score` 与置顶数据源与头图上传三件）→ U13 通知中心整页（T3.16）→ **T6.1 顺手把话题预审放行做掉**→ 管理端接手 `audit_task` 与举报转审队列（T6.1 —— 现在举报「转审」之后没有人接手）**；再往后：阶段 4 AI+情绪+危机 → 阶段 5 私信 → 阶段 6 管理端 → 阶段 7 推荐与实验 → 阶段 8 测试 → 阶段 9 论文
 - [ ] **阶段 1B（开题报告 / 文献综述 ≥15 篇含 ≥5 英文 / 23 页线框 / ER 图 / 架构图 3 张）—— 按用户 2026-09-18 指令「毕设材料先不用写」顺延**；风险 R21（2026-10 上旬截止）改由用户盯办
 - [x] **论文材料目录骨架**：`论文材料/`（prompts · experiments/{data,scripts,output,figs} · 截图 · 图表 · 论文草稿 · 答辩）

diff --git a/docs/dev-log.md b/docs/dev-log.md
@@ -1182,3 +1182,77 @@ D_表行数  user 43 / post 111 / post_like 16 / user_follow 0
 - T3.10 埋点（`user_action` + BR3 去重 + U8 搜索历史/热搜）、T3.15 编辑与到期销毁、T3.16 U13 通知中心整页与 `notify_preference`、T3.17 种子评论 ≥200 条、话题预审放行（T6.1）、`is_top` 写入通道、搜索相关度与全文通道（`sql/10_index.sql` 仍未执行）本轮无一进展。
 - 🔴 **清一次性数据已经拖到第四轮**：root 实测 `user` **213** 行，其中 `smoke_%` + `probe%` **205** 个（约 96% 是测试账号）、未过审话题 **11** 条；清理 SQL 就写在本日志「续 8 / 续 10」里，**一直没人执行**。每多拖一轮，「广场共 208 条」这类数字就越没有产品含义。
 - **仍未打 tag**（Gate3 未过，最新 tag `stage-2-skeleton`）。
+---
+
+## 2026-09-23 阶段 3（续 12）—— 四条线全绿之上又抓出第 4 个真 bug：同一屏两个「评论 N」（19 与 20）；以及本轮立的新规矩「新写的断言必须先证伪」
+
+### 本轮挑这件事的理由
+
+续 11 交完 21 张截图之后，本轮做的第一件事是**逐张复核自己刚提交的图**。在 06（U4 帖子详情-评论区）上看见**同一屏写着两个「评论」**：卡片统计行「评论 19」、下面评论区标题「评论 20」。这件事的荒谬之处正是它的价值 —— 当时 **shootgate 21/21 PASS、domprobe 120 项 0 失败、`npm run build` exit 0、冒烟 246 项 0 失败，四条线同时是绿的**。
+
+### 🔴 根因：DB 现查，不猜
+
+现查 SQL 留在 `_cache/mindisle-dbtmp/verify-state-r13.sql`（输出 `.out.txt`）：
+
+| 量 | 值 | 谁在用这个数 |
+|---|---|---|
+| `post 308` 的 `comment` 行数 | 20 | — |
+| `status='PUBLISHED' AND deleted=0` | **19** | 卡片/页脚 = `post.comment_cnt` ← `CommentMapper.countPublished`（只数已发布，**含楼中楼**） |
+| `status='PENDING'` | 1 | 只有作者自己看得见（T3.7 两态口径） |
+| `parent_id IS NOT NULL` | 0 | 这一帖没有楼中楼，所以两数之差恰好就是那条待审 |
+| 评论区标题原用的数 | **20** | 列表 `total` ← `CommentStoreAdapter.countVisibleRoots`（**只数一级**，且把作者自己的 PENDING 算进来） |
+
+**结论：两边都不是 bug。** `comment_cnt` 回答「这条帖有多少条已发布评论」，列表 `total` 回答「当前查看者能看到多少条一级评论」，后端两个方法都有注释写明设计意图。**撞在前端同一个屏上、又都印成「评论 N」，才是 bug。** 这类 bug 单测测不出来（两边各自都对）、冒烟测不出来（两个字段都是合法出参）、jsdom 测不出来（它只比字符串）、截图脚本也测不出来（它没有「同名数字必须同口径」这条概念）。
+
+### 修法：不加接口，改的是「同名必须同口径」这条纪律
+
+- `CommentSection.vue`：新增 prop `publishedCount`，标题数字改用它（拿不到才回退 `total`）；新增四个 computed `shownTotal` / `pendingRoots` / `pendingAll` / `countRule`；那行灰字改成把口径念出来 ——「只数已发布评论，楼中楼回复也算在内，与卡片上的『评论』是同一个数。本页另有 1 条审核中、仅你可见，所以下面会比这个数字多。」
+- 翻页到底的文案从「共 20 条一级评论，已经看到底了」改成「一级评论 20 条已全部加载（含 1 条审核中、仅你可见）」——**把差值解释掉，而不是把它藏起来**。
+- `PostDetailView.vue`：`:published-count="post.commentCnt"` 传进去，两处共用同一个数（发新评论时它自增，口径仍与后端一致）。
+
+### 判据：两条线各钉一条，而且 PASS 也要打印读数
+
+- `shootgate.mjs`（275 → **291 行**）：06 新增 `assert` —— 读 `.stat` 里的「评论X」与 `.comments .h .n`，不等即 FAIL；**并且把两个读数原样打印进 `console-evidence.log`**（`.. 06 两处「评论」读数：卡片=19 / 评论区标题=19`）。只留一个「通过」，下一轮没人能复核它当时比的是什么。
+- `domprobe.mjs`（1339 → **1350 行**，120 → **121 项**）：第 9 组同步钉一条「卡片 = 标题」，另把旧文案断言改成新文案「一级评论 19 条已全部加载」。
+- 顺手订正 `domprobe.mjs` 文件头一条**已经过期的事实**：它写着「本机没有可用的真实浏览器」，续 11 之后这句就不成立了 → 改成两条取证线的边界说明（jsdom 管深水区字段断言，shootgate 管样式/布局/级联/真实字体/滚动；别拿一条的绿替另一条背书）。
+
+### 🔴 本轮最值钱的一条纪律：新写的断言必须先证伪
+
+改完判据之后**故意把 `shownTotal` 改回 `total`**（即把修复撤掉）重跑 shootgate：06 **确实 FAIL** 并打印 `卡片=19 / 评论区标题=20`（`_cache/mindisle-dbtmp/shootgate-neg.log`）；再改回来，重新 21/21 PASS。
+
+**一条从没红过的断言，和没写过它一样。** 续 11 那条「近似断言（`≥0`）等于没断」是它的上半句 —— 不仅要问「断言够不够严」，还要问「**它坏的时候会不会响**」。以后每加一条判据，交付前必须有一次「让修复失效 → 看它 FAIL → 改回来」的往返，并把那次 FAIL 的日志留在 E 盘缓存里。
+
+### 本轮数字（照抄脚本与构建自己打印的汇总行）
+
+| 线 | 现量 | 日志 |
+|---|---|---|
+| `npm run build` | **exit 0 / ✓ 1784 modules / 993ms**（文档旧值 1783；本轮只改 2 个 `.vue` + 2 个探针，**+1 的来源没单独取证**，按现量刷新并在此写白） | 终端 |
+| `node probe/domprobe.mjs` | **121 项 / 0 失败（13 组）** | `_cache/mindisle-dbtmp/domprobe-r13.log` |
+| `node probe/shootgate.mjs` | **21 张 / 21 PASS / 漏白 0 / 红字 0 / 断言失败 0 / exit 0** | `shootgate-9.log`、`shootgate-10.log`（末次含读数行） |
+| 证伪跑 | 06 **FAIL**（撤掉修复时） | `shootgate-neg.log` |
+| 后端 | **一行未改** → 368 单测 / 冒烟 246 项 231 断言沿用 | — |
+| DB 现查 | `user` **231** / `smoke_%+probe%` **223** / `post` **368**（公开 **223**）/ 未过审话题 **14** / `PERF500夹具` 残留 **0** | `verify-state-r13.out.txt` |
+
+### 🔴 看图看出的第二件事：取证样本正在被自家夹具污染（未修）
+
+本轮 03 那张广场图，**首屏两张卡是「探针话题162429920 乙 / 甲」**；15 那张 U11 屿友主页的主角是 `probe_topic_u162429920`(id 232)。**图没拍错，库里真的长这样。** 成因是两条规则撞在一起：`domprobe` 每跑一次注册 5~6 个一次性账号、发 4~6 条夹具帖，而 `shootgate` 的取样规则是「首屏 `commentCnt` 最大者」+「首条非匿名帖的作者」。连带后果是 `pub_public` 从 208 → 218 → **223** 漂移，**任何把这个数写死的文档句子，复跑一次就变成假话** —— 所以 `docs/gate/阶段3/README.md` 03 那格已改成「与当轮 `shot-manifest.json` 的 `samples.postTotal` 逐字相等」。
+
+### 🔴 清一次性数据为什么拖了五轮 —— 本轮才想明白
+
+不是懒。这些账号与帖子同时是探针断言的**夹具**：06 那张图靠 `post 308` 的 19 条已发布评论，`domprobe` 第 9 组靠那 19 棵一级楼。**一把 `DELETE` 会直接把自己的判据打死**，所以每轮跑到这一步都会本能地绕开。真正欠的不是清理 SQL（「续 8 / 续 10」里就有），是**一份「清完还能一键重建夹具」的 seed 脚本**。已把手册 §15 下一步 ⑧ 升格成一条真任务：`docs/seed/demo-dataset.sql`（演示数据）+ `docs/seed/fixtures.sql`（探针夹具），做完才能同时解掉上面那条「样本污染」。
+
+### 文档回写
+
+- 手册升 **v1.2.5**：`制作步骤文档.md` 1843 → **1847 行**（口径 = .NET `[IO.File]::ReadAllLines`；CRLF、无 BOM）—— L1/L3 版本号、§6.4 第 4 条**三条新补记**（第 4 个 bug 全案 / 证伪纪律 / 本轮数字）、§6.4 第 5 条 tag 行、§15 T3.14 行、§15 收工口径（120→121、1783→1784、第四条线再补一刀）、§18 Gate3 行、§19 新增 v1.2.5 行、下一步 ②（复跑顺序 domprobe 必须排在 shootgate 之前）与 ⑧（升格为「seed + 清理」一条任务）。
+- `docs/gate/阶段3/README.md` **188 → 223 行**：§1.1 标题与行数订正 + 「PASS 也要打印读数」纪律、逐张表 8 格数字刷新（03/05/06/07/15/16/19/20）、**新增 §1.3.1 全案**、§1.4 补两条边界（样本污染 / 数字漂移）、§2.1 与 §2.5 加漂移注记、§3 五行表更新 + 「本轮实证结论」补下半句、§4 复跑清单补 0.5 条顺序说明、页眉加「最后复跑 19:23」。
+- README.md：进度行、手册版本、探针 120→121、build 1784、新增「阶段 3（续 12）」条目。
+- 全局《复利与踩坑日志》：在**第 12 轮内部**补三条 bullet（同一工作轮，不开第 13 轮）——「四线全绿仍被肉眼抓出第 4 个 bug」「新断言必须先证伪」「.NET `CurrentDirectory` 不跟 PowerShell 的 `cd`」。
+
+### 仍未做（截至本轮）
+
+- **U1 首页未开工**、**T3.15–T3.17 复检未做** → §18 Gate3 仍 ◐，**本轮不打 tag**，最新 tag 仍 `stage-2-skeleton`。
+- **演示数据集 / 夹具重建脚本未做**（本轮新升格的任务，见上一节）。
+- 21 张图仍不覆盖：带配图帖的图文流、推荐 Tab 真实结果、U7 资料编辑（`PUT /api/users/me/profile` 仍 90001）、Safari/Firefox/真机、并发吞吐。
+- T3.10 埋点、T3.15 编辑与到期销毁、T3.16 通知中心整页与 `notify_preference`、T3.17 种子评论 ≥200 条、话题预审放行（T6.1）、`is_top` 写入通道、搜索相关度与全文通道（`sql/10_index.sql` 仍未执行）本轮无一进展。
+- 🔴 **红线自查（照旧）**：本轮全局日志第 12 轮新写的 bullet 里 0 处口令明文；**第 7 轮那 3 处历史明文仍在**（`E:\\codex workspace\\全局复利与踩坑日志.md` L302 / L304 附近），未获用户授权前不擅自删改，已再次当面报告。
+
